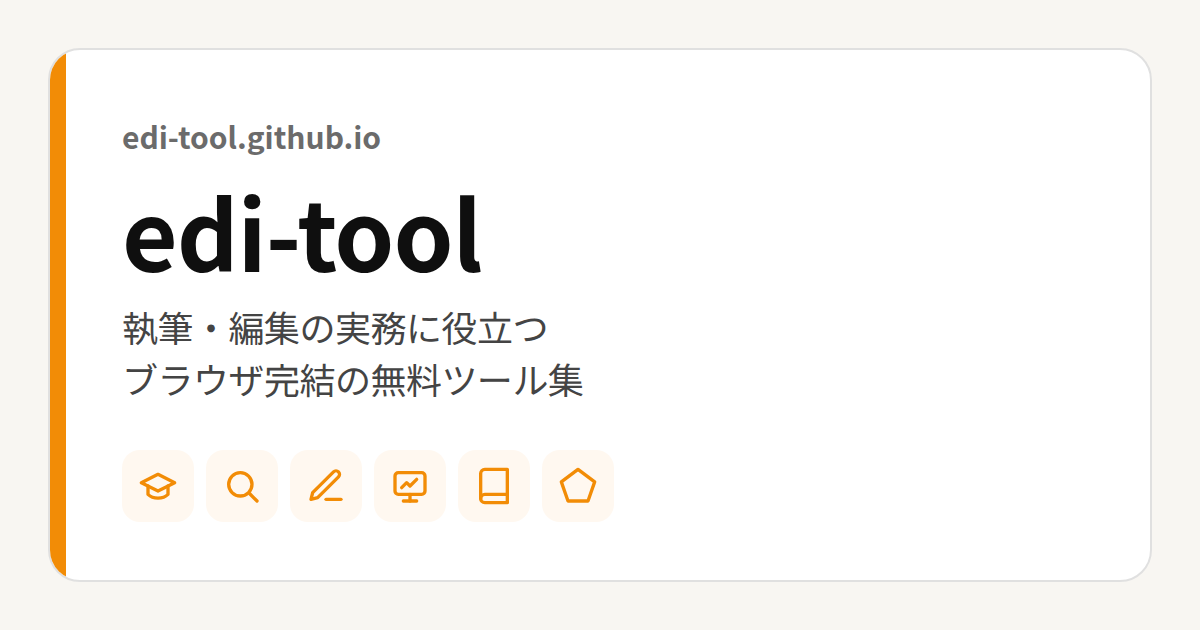
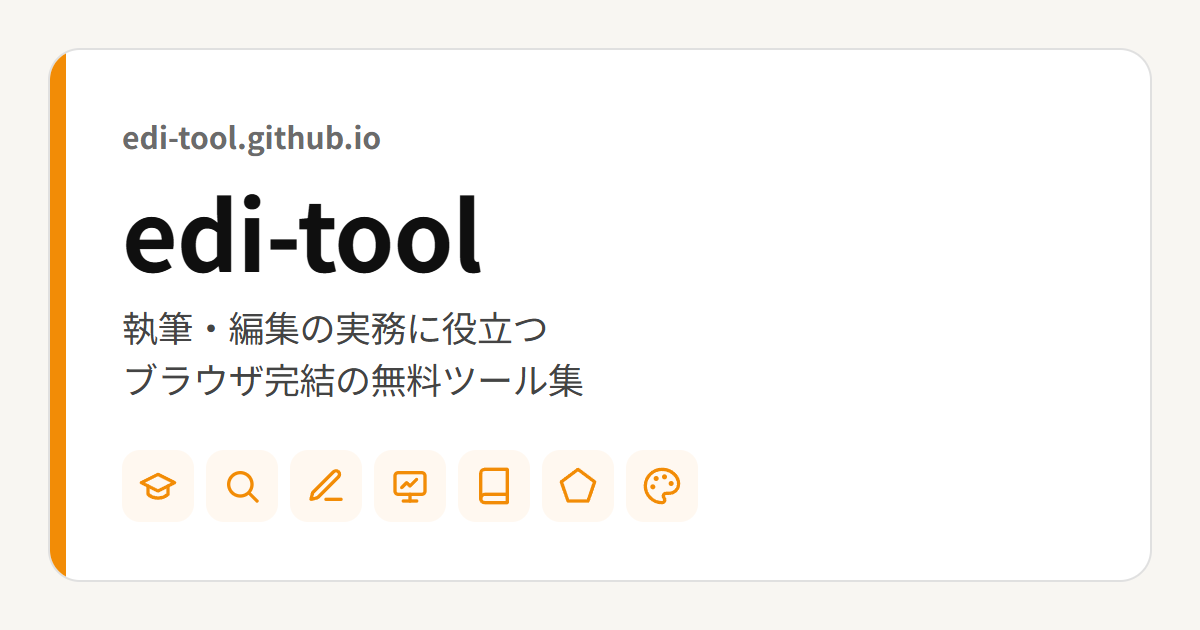
feat: 配色さん（color-palette）を掲載する
index.html のカード、sitemap.xml、README の掲載ツール表、404.html の一覧、
ハブの meta description、ハブ OGP 画像（アイコン一覧に追加）を更新し、
OGP 生成スクリプトに配色さんを追加する。

diff --git a/index.html b/index.html
@@ -1,7 +1,7 @@
 ---
 layout: null
 title: 編集・制作の実務ツール集
-description: 執筆・編集の実務に役立つ、ブラウザ完結の無料ツール集。漢字の学年判定、表外漢字の検出、表記ゆれの統一、ページ数・背幅の概算。すべてブラウザ内で完結し、ファイルは外部送信しません。
+description: 執筆・編集の実務に役立つ、ブラウザ完結の無料ツール集。漢字の学年判定、表外漢字の検出、表記ゆれの統一、ページ数・背幅の概算、印象語からの配色提案。すべてブラウザ内で完結し、ファイルは外部送信しません。
 lang: ja
 ---
 <!DOCTYPE html>
@@ -272,6 +272,15 @@ lang: ja
                     <span class="tool-name">図形作成さん</span>
                     <span class="tool-desc">数値入力から2D・3D図形を生成し、高解像度PNGやSVGとして保存します。教材・プリントの図版づくりに。</span>
                     <span class="tool-tag">PNG・SVG</span>
+                </span>
+                <svg class="tool-arrow" viewBox="0 0 24 24" fill="none" stroke="currentColor" stroke-width="2" stroke-linecap="round" stroke-linejoin="round" aria-hidden="true"><line x1="5" y1="12" x2="19" y2="12"></line><polyline points="12 5 19 12 12 19"></polyline></svg>
+            </a>
+            <a class="tool-card" href="https://edi-tool.github.io/color-palette/">
+                <span class="tool-icon" aria-hidden="true"><svg viewBox="0 0 24 24" fill="none" stroke="currentColor" stroke-width="2" stroke-linecap="round" stroke-linejoin="round"><circle cx="13.5" cy="6.5" r=".5"></circle><circle cx="17.5" cy="10.5" r=".5"></circle><circle cx="8.5" cy="7.5" r=".5"></circle><circle cx="6.5" cy="12.5" r=".5"></circle><path d="M12 2C6.5 2 2 6.5 2 12s4.5 10 10 10c.926 0 1.648-.746 1.648-1.688 0-.437-.18-.835-.437-1.125-.29-.289-.438-.652-.438-1.125a1.64 1.64 0 0 1 1.668-1.668h1.996c3.051 0 5.555-2.503 5.555-5.554C21.965 6.012 17.461 2 12 2z"></path></svg></span>
+                <span class="tool-body">
+                    <span class="tool-name">配色さん</span>
+                    <span class="tool-desc">印象語から方向性の違う配色を見比べ、AIに渡す配色指示文をコピーします。表紙・チラシ・教材の色決めに。</span>
+                    <span class="tool-tag">配色・AI指示文</span>
                 </span>
                 <svg class="tool-arrow" viewBox="0 0 24 24" fill="none" stroke="currentColor" stroke-width="2" stroke-linecap="round" stroke-linejoin="round" aria-hidden="true"><line x1="5" y1="12" x2="19" y2="12"></line><polyline points="12 5 19 12 12 19"></polyline></svg>
             </a>

diff --git a/scripts/ogp/gen.js b/scripts/ogp/gen.js
@@ -1,4 +1,4 @@
-// ハブと6ツールの共有用 OGP 画像（1200×630）を HTML テンプレートから生成する。
+// ハブと7ツールの共有用 OGP 画像（1200×630）を HTML テンプレートから生成する。
 // 使い方は scripts/ogp/README.md を参照。出力先: scripts/ogp/out/<名前>.png
 // → 各リポジトリ直下の ogp.png として配置する（ハブは hub.png → このリポジトリの ogp.png）。
 const { chromium } = require('playwright');
@@ -15,6 +15,7 @@ const ICONS = {
   kokuban: I('<rect x="3" y="4" width="18" height="13" rx="2"></rect><path d="M8 21h8"></path><path d="M12 17v4"></path><path d="m7 13 3-3 2 2 4-4"></path>'),
   page: I('<path d="M4 19.5A2.5 2.5 0 0 1 6.5 17H20"></path><path d="M6.5 2H20v20H6.5A2.5 2.5 0 0 1 4 19.5v-15A2.5 2.5 0 0 1 6.5 2z"></path>'),
   zukei: I('<path d="M12 2 22 9.5 18 21H6L2 9.5Z"></path>'),
+  palette: I('<circle cx="13.5" cy="6.5" r=".5"></circle><circle cx="17.5" cy="10.5" r=".5"></circle><circle cx="8.5" cy="7.5" r=".5"></circle><circle cx="6.5" cy="12.5" r=".5"></circle><path d="M12 2C6.5 2 2 6.5 2 12s4.5 10 10 10c.926 0 1.648-.746 1.648-1.688 0-.437-.18-.835-.437-1.125-.29-.289-.438-.652-.438-1.125a1.64 1.64 0 0 1 1.668-1.668h1.996c3.051 0 5.555-2.503 5.555-5.554C21.965 6.012 17.461 2 12 2z"></path>'),
 };
 const TOOLS = [
   { out: 'edu-kanji-checker.png', icon: 'edu', name: '教育漢字さん', tag: '漢字を小学校の学習学年別に分類', chips: ['PDF・Word', '学年別の分布', 'ブラウザ完結'] },
@@ -23,6 +24,7 @@ const TOOLS = [
   { out: 'kokuban-adjust.png', icon: 'kokuban', name: '黒板補正さん', tag: '斜めに撮った黒板を、まっすぐに', chips: ['写真', '高解像度のまま保存', 'ブラウザ完結'] },
   { out: 'page-count.png', icon: 'page', name: 'ページ調整さん', tag: '台割りに合うページ数と背幅を概算', chips: ['ページ数', '背幅', 'ブラウザ完結'] },
   { out: 'zukei-drafter.png', icon: 'zukei', name: '図形作成さん', tag: '数値入力から2D/3D図形を生成', chips: ['PNG・SVG', '教材・プリント向け', 'ブラウザ完結'] },
+  { out: 'color-palette.png', icon: 'palette', name: '配色さん', tag: '印象語から配色を探して、AIに渡す', chips: ['24案を比較', 'AI向け指示文', 'ブラウザ完結'] },
 ];
 const css = `
 @font-face { font-family: N; font-weight: 400; src: ${font('noto-sans-jp-latin-400-normal.woff2')}; }

diff --git a/404.html b/404.html
@@ -131,6 +131,7 @@ permalink: /404.html
             <li><a href="https://edi-tool.github.io/kokuban-adjust/">黒板補正さん</a></li>
             <li><a href="https://edi-tool.github.io/page-count/">ページ調整さん</a></li>
             <li><a href="https://edi-tool.github.io/zukei-drafter/">図形作成さん</a></li>
+            <li><a href="https://edi-tool.github.io/color-palette/">配色さん</a></li>
         </ul>
     </main>
     <footer>&copy; 2026 ISHIKAWA, Natsuki | MIT License</footer>

diff --git a/scripts/ogp/README.md b/scripts/ogp/README.md
@@ -1,6 +1,6 @@
 # OGP 画像の生成
 
-ハブ（このリポジトリ）と5ツールの共有用画像（1200×630、Noto Sans JP）を
+ハブ（このリポジトリ）と7ツールの共有用画像（1200×630、Noto Sans JP）を
 HTML テンプレートから生成するスクリプト。サイト本体には依存を持ち込まないよう、
 このディレクトリだけで完結させ、`_config.yml` の `exclude` で公開対象から外している。
 
@@ -10,7 +10,7 @@ HTML テンプレートから生成するスクリプト。サイト本体には
 cd scripts/ogp
 npm install
 npx playwright install chromium   # 初回のみ（手元に Chromium があれば CHROMIUM_PATH で指定してもよい）
-npm run gen                        # → out/ に 6 枚出力
+npm run gen                        # → out/ に 8 枚出力
 ```
 
 | 出力 | 配置先 |

diff --git a/README.md b/README.md
@@ -17,6 +17,7 @@
 | 黒板補正さん | 黒板・ホワイトボード写真の傾き補正 | https://edi-tool.github.io/kokuban-adjust/ |
 | ページ調整さん | ページ数提案・背幅概算 | https://edi-tool.github.io/page-count/ |
 | 図形作成さん | 数値入力から2D・3D図形を生成しPNG・SVGで保存 | https://edi-tool.github.io/zukei-drafter/ |
+| 配色さん | 印象語から配色を比較し、AI向け配色指示文をコピー | https://edi-tool.github.io/color-palette/ |
 
 ※ 社内用の `sku-to-qr` は `noindex` のため一覧・サイトマップに含めない。
 
